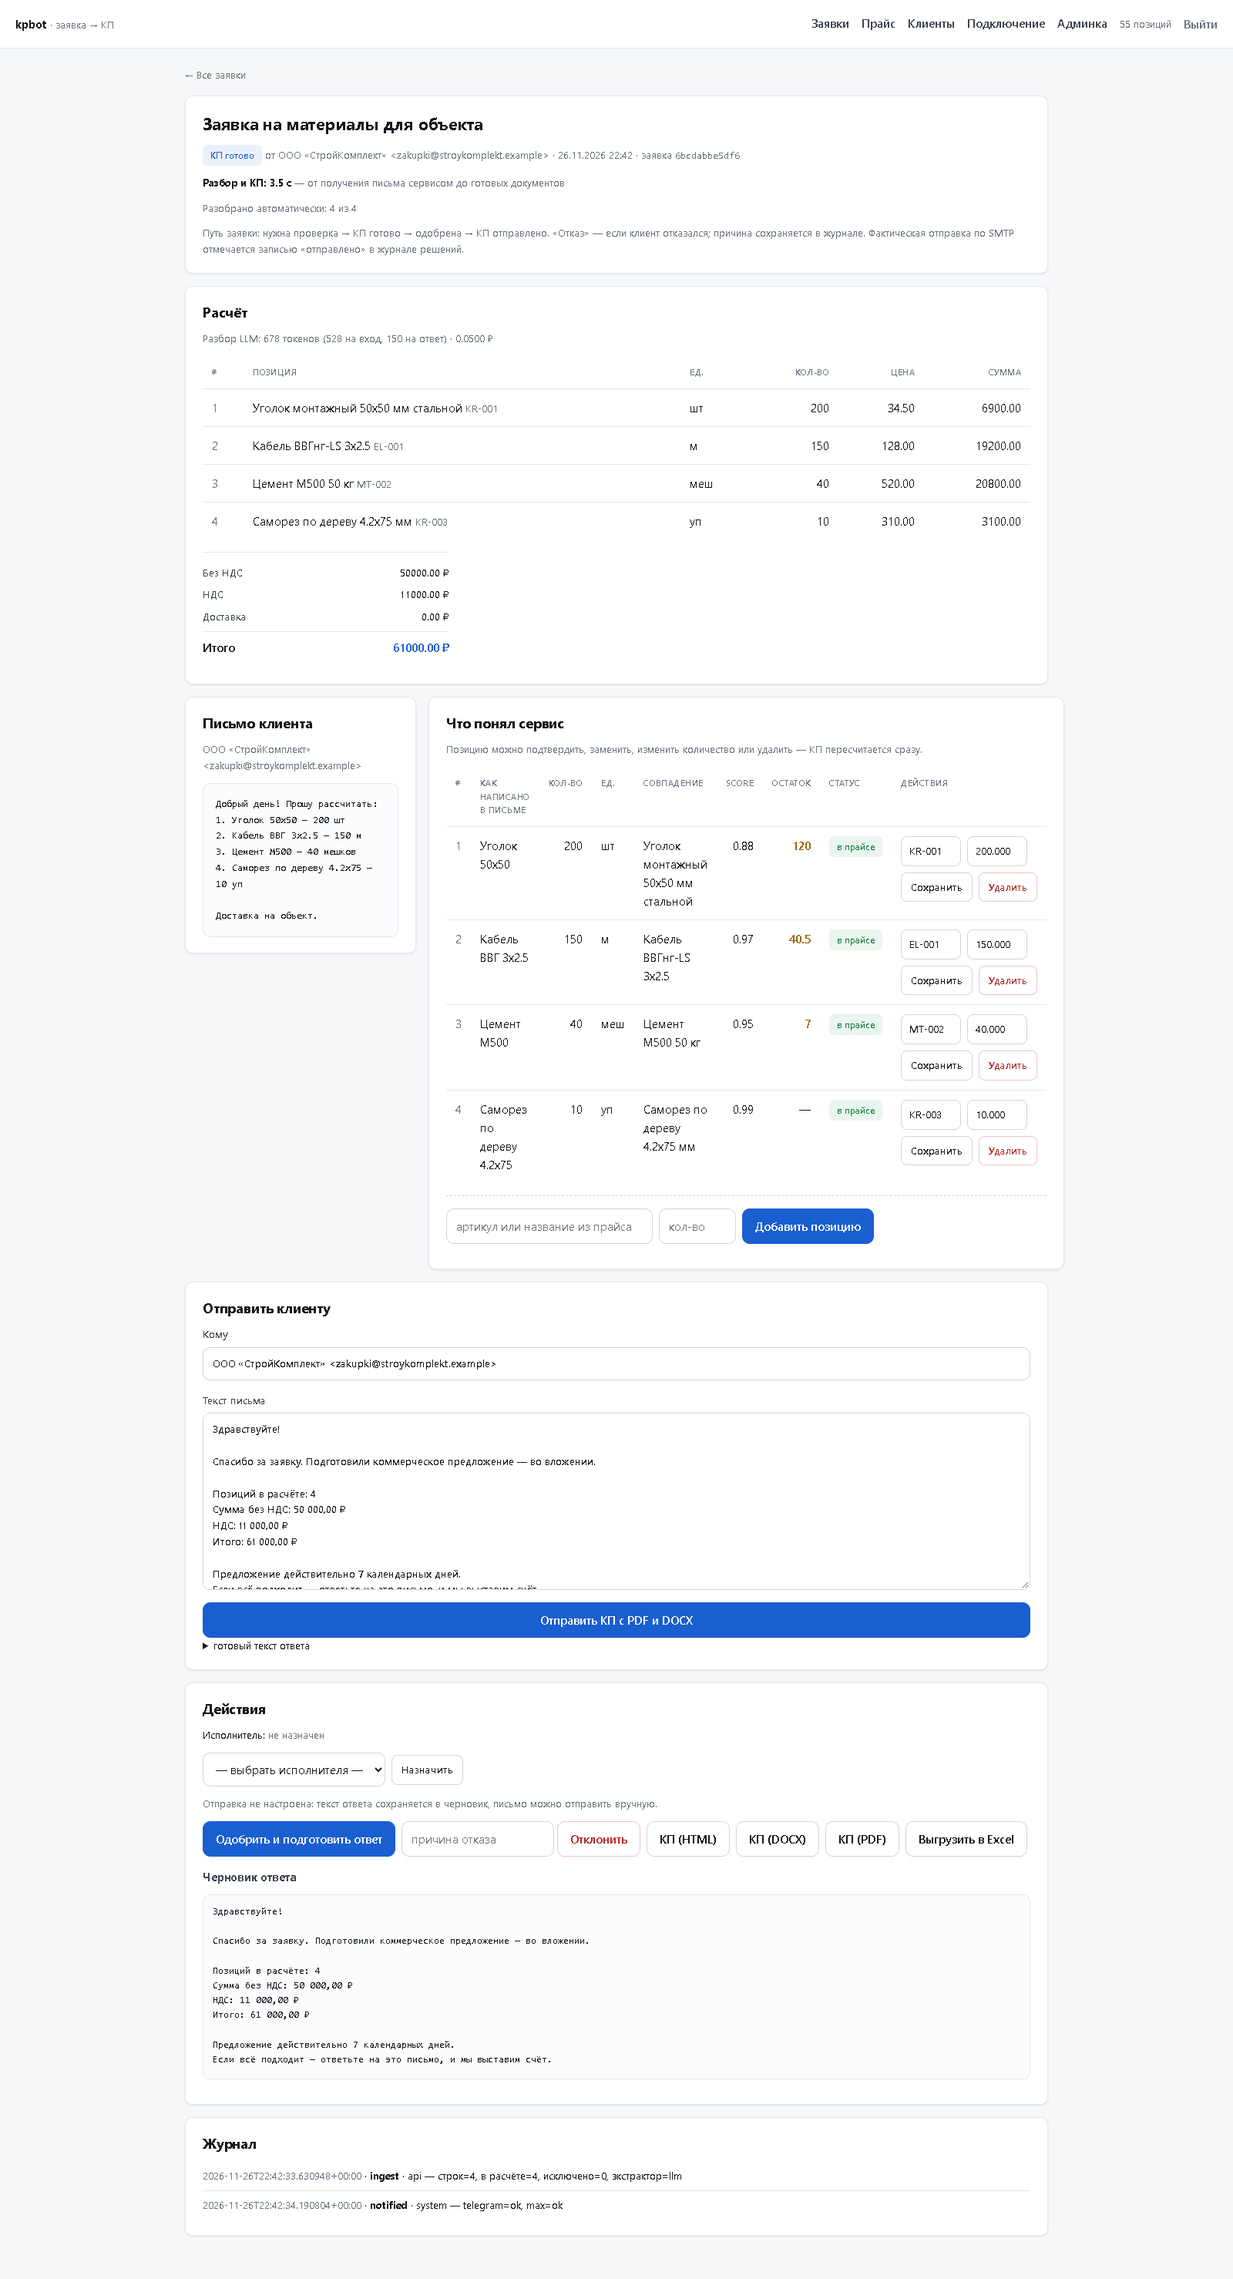
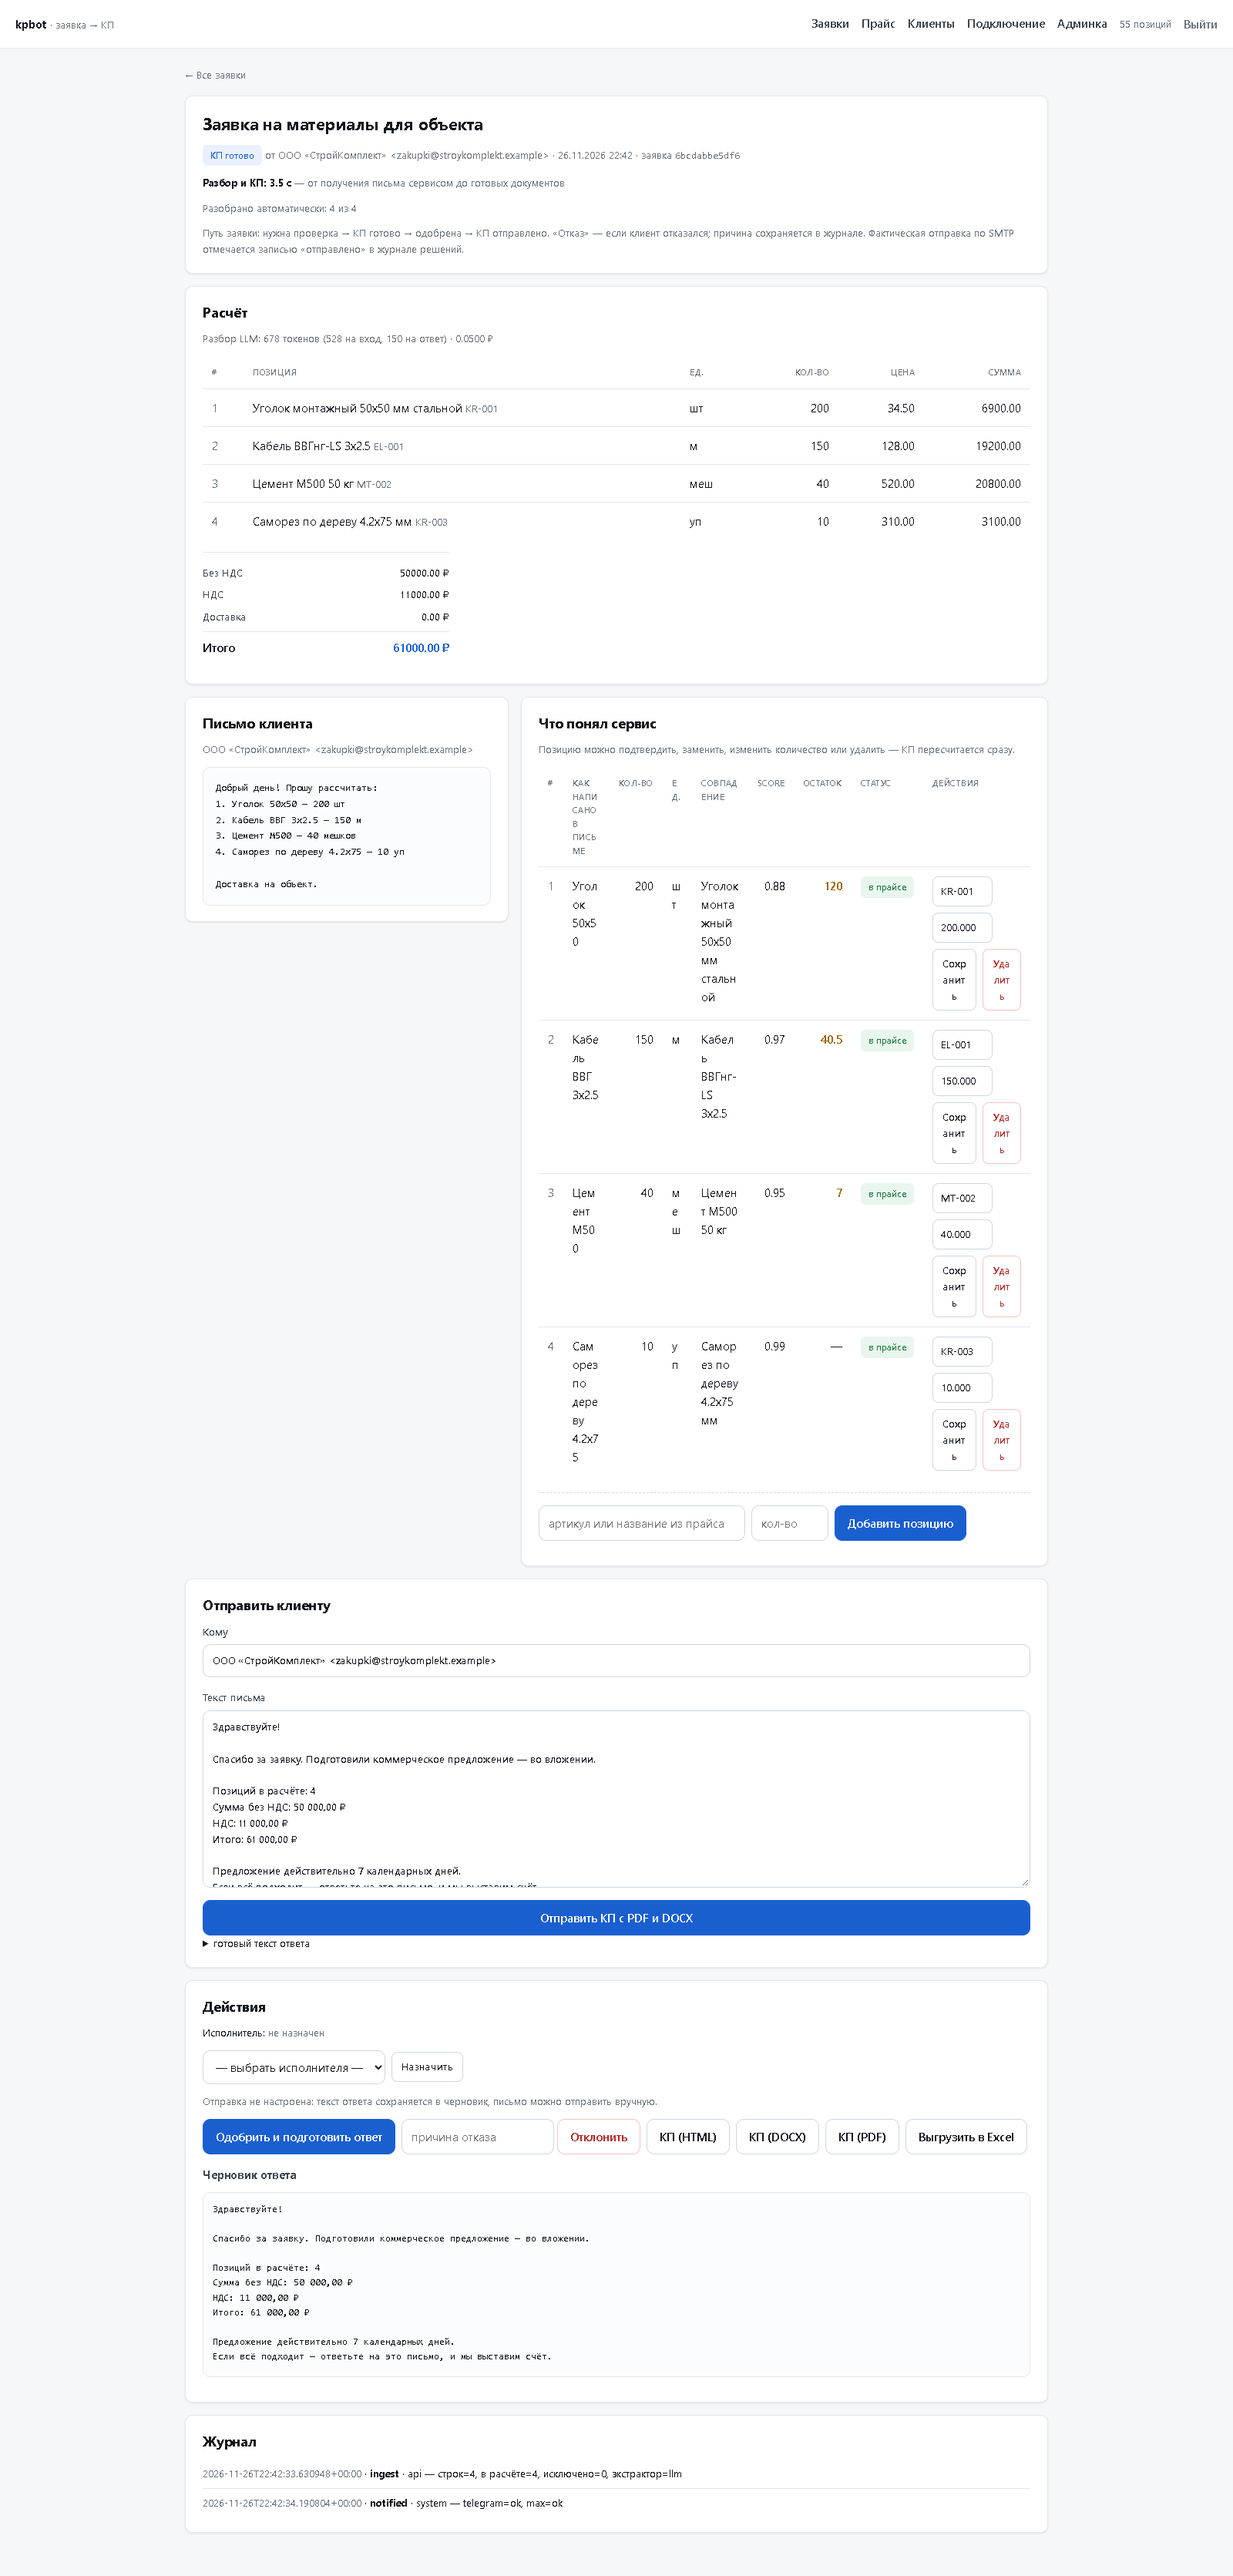
fix(ui): расчёт на телефоне без обрезки, поля не вылезают

diff --git a/kpbot/static/app.css b/kpbot/static/app.css
@@ -1337,3 +1337,18 @@ code { overflow-wrap: anywhere; }
   /* Таблица расчёта шире экрана: пусть прокручивается, а не режется */
   .grid { min-width: 560px; }
 }
+
+@media (max-width: 768px) {
+  /* Расчёт на телефоне: убираем артикул и единицу, иначе таблица режется.
+     Цена и сумма остаются — это то, что проверяет менеджер. */
+  .grid { min-width: 0; }
+  .grid th:nth-child(3), .grid td:nth-child(3),
+  .grid th:nth-child(4), .grid td:nth-child(4) { display: none; }
+  .grid th, .grid td { font-size: 11px; padding: 5px 4px; }
+
+  /* Поля формы не должны вылезать за карточку */
+  textarea, input[type=text], input[type=email], input[type=search] {
+    max-width: 100%;
+    box-sizing: border-box;
+  }
+}
